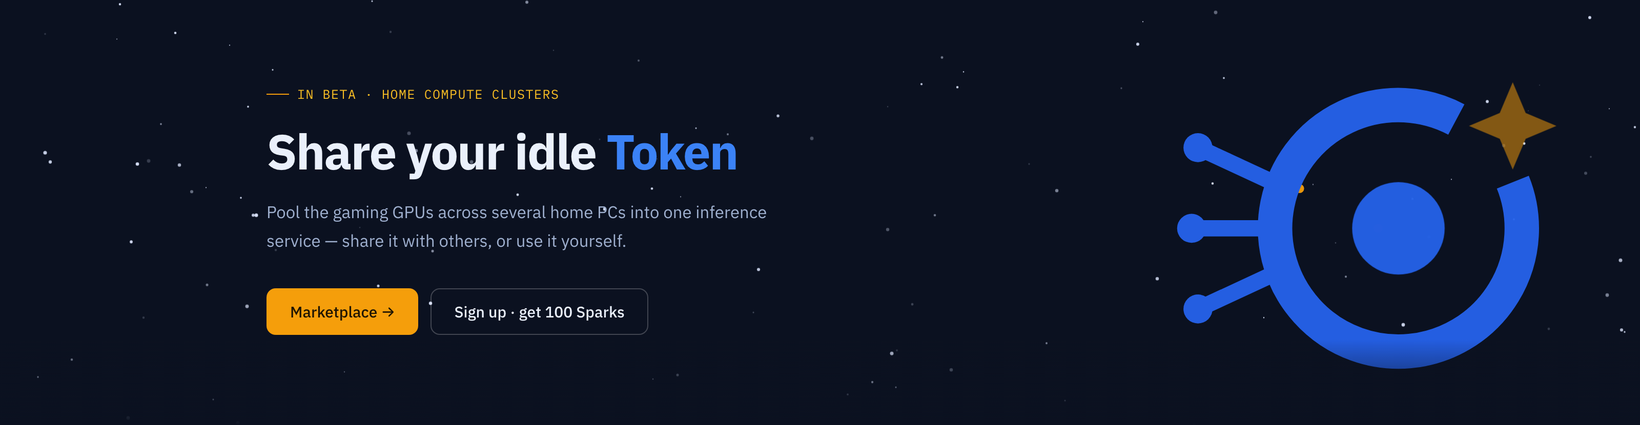
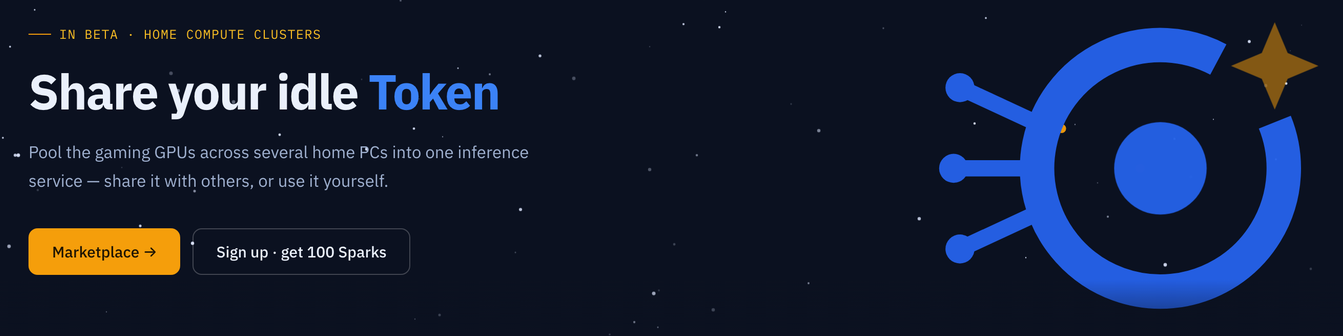
README: crop the dead space out of the hero image
The capture carried 266px of empty background on the left and 84px on top,
against 86 and 56 on the other sides -- lopsided, and at the README's 820px
width most of it was black. Cropped to the artwork with an even 28px margin:
1640x425 -> 1343x336, nothing clipped (the brand-coloured art keeps a 27px gap
on all four sides).

diff --git a/client/src/SettingsPanel.tsx b/client/src/SettingsPanel.tsx
@@ -93,6 +93,58 @@ function CapSlider(props: { label: string; noCap: string; totalBytes: number; va
   );
 }
 
+// ---- weight status, on the model it belongs to ----------------------------
+// Four states, and the button says what pressing it DOES in each:
+//   downloading -> progress + Cancel      failed -> reason + Retry
+//   missing     -> Download               present -> "ready", no button
+export interface WeightsInfo {
+  needs: boolean;
+  path: string;
+  dl: { have: number; total: number; endpoint?: string; note?: string; error?: string } | null;
+  onDownload: () => void;
+  onCancel: () => void;
+}
+
+function WeightsRow(props: { w: WeightsInfo }) {
+  const { t } = useI18n();
+  const d = props.w.dl;
+  // Clicks land on a <label> that owns a radio input; without this, hitting
+  // "Download" would also re-select the model (harmless here, but it makes the
+  // button feel like it did something else).
+  const stop = (e: React.MouseEvent) => e.preventDefault();
+
+  if (d?.error) {
+    return (
+      <span className="model-opt__weights model-opt__weights--err" onClick={stop}>
+        <span>{t("weights.failed")}</span>
+        <button className="linkbtn" onClick={props.w.onDownload}>{t("weights.retry")}</button>
+      </span>
+    );
+  }
+  if (d) {
+    const pct = d.total > 0 ? Math.min(100, Math.round((d.have / d.total) * 100)) : 0;
+    return (
+      <span className="model-opt__weights" onClick={stop}>
+        <span className="model-opt__wbar"><i style={{ width: `${pct}%` }} /></span>
+        <span>
+          {fmtBytes(d.have)}{d.total > 0 ? ` / ${fmtBytes(d.total)}` : ""}
+          {d.endpoint ? ` · ${t("weights.from")} ${new URL(d.endpoint).host}` : ""}
+        </span>
+        <button className="linkbtn" onClick={props.w.onCancel}>{t("weights.cancel")}</button>
+      </span>
+    );
+  }
+  if (props.w.needs) {
+    return (
+      <span className="model-opt__weights" onClick={stop}>
+        <span>{t("weights.needed")}</span>
+        <button className="linkbtn" onClick={props.w.onDownload}>{t("weights.download")}</button>
+      </span>
+    );
+  }
+  return <span className="model-opt__weights model-opt__weights--ok">{t("weights.ready")}</span>;
+}
+
 // ---- schema (everything except the bespoke Quick page) --------------------
 // Six categories, down from fifteen (2026-07 UX audit): the handful of
 // settings that actually work today must not drown in reserved placeholders.
@@ -299,6 +351,9 @@ export default function SettingsPanel(props: {
   // on whatever was open last. Applied on mount only — after that the nav owns
   // the selection, so navigating away inside settings isn't fought.
   initialCategory?: string | null;
+  // Weight presence + download control for the SELECTED model. Owned by App
+  // (it holds the progress-event subscription); rendered on the model row.
+  weights?: WeightsInfo;
   // Sidebar IA: settings is a PLACE now, rendered inline in the content area.
   // (The modal wrapper remains only for potential embedded reuse.)
   asPage?: boolean;
@@ -487,6 +542,12 @@ export default function SettingsPanel(props: {
               <span className="model-opt__name">{m.label}</span>
               <span className="model-opt__params">{m.params}</span>
               {!m.available ? <span className="model-opt__soon">{t("settings.soon")}</span> : null}
+              {/* Weight status sits on the SELECTED row only. It used to be a
+                  floating bar pinned to every screen, which is wrong twice:
+                  "no weights yet" is the resting state of a fresh install (so
+                  the bar never left), and the thing it is about — which model —
+                  is chosen right here. One probe, on the model it describes. */}
+              {s.modelId === m.id && props.weights ? <WeightsRow w={props.weights} /> : null}
             </label>
           ))}
         </div>

diff --git a/client/src/App.tsx b/client/src/App.tsx
@@ -767,9 +767,15 @@ function Dashboard(props: {
 //      been downloaded is kept (otherwise users delete it and start over).
 //   3. Cancel is a first-class citizen. A long task without a cancel button gets
 //      cancelled by quitting the whole application.
+//
+// TRANSIENT STATES ONLY (2026-08-10). It used to have a fourth state — "no
+// weights on this machine yet" — which is not an event, it is the resting
+// condition of every fresh install. A floating bar that never goes away stops
+// being read within a minute and covers the page for the rest of the session.
+// That fact now lives where the decision is made: on the model itself, in
+// Settings → Quick. What is left here happens only while something is running.
 function WeightsBanner(props: {
   dl: { have: number; total: number; endpoint?: string; note?: string; error?: string } | null;
-  needsWeights: boolean;
   onCancel: () => void;
   onStart: () => void;
   onDismissError: () => void;
@@ -799,16 +805,6 @@ function WeightsBanner(props: {
         </span>
         {d.note ? <span className="wbanner__hint">{d.note}</span> : null}
         <button className="iconbtn" onClick={props.onCancel}>{t("weights.cancel")}</button>
-      </div>
-    );
-  }
-  if (props.needsWeights) {
-    return (
-      <div className="wbanner" role="status">
-        <strong>{t("weights.needed")}</strong>
-        {/* the ACTION, not the state — this button read "Downloading weights"
-            while nothing was downloading, which is what it turns into. */}
-        <button className="btn-secondary" onClick={props.onStart}>{t("weights.download")}</button>
       </div>
     );
   }
@@ -1261,7 +1257,7 @@ export default function App() {
 
   return (
     <LangContext.Provider value={{ lang, setLang }}>
-      <div className={`app${dl || needsWeights ? " app--wbanner" : ""}`}>
+      <div className={`app${dl ? " app--wbanner" : ""}`}>
         <TopBar
           cluster={cluster}
           theme={theme}
@@ -1315,6 +1311,14 @@ export default function App() {
                 session={session}
                 onSignIn={() => setShowAuth(true)}
                 initialCategory={settingsCategory}
+                weights={{
+                  needs: needsWeights,
+                  path: weightsPath,
+                  dl,
+                  onDownload: () =>
+                    void ensureWeights().catch((e) => setDl({ have: 0, total: 0, error: String(e) })),
+                  onCancel: () => void cancelFetch("primary"),
+                }}
                 onClose={() => setView("cluster")}
               />
             ) : (
@@ -1373,12 +1377,12 @@ export default function App() {
           </div>
         </div>
       </div>
-      {/* The weight download banner. It appears only when weights are genuinely
-          missing or a download is running -- a permanent notice bar gets ignored. */}
-      {dl || needsWeights ? (
+      {/* Only while a download is running or has failed — `dl` covers both.
+          "This machine has no weights yet" is a standing condition, not an
+          event, and lives on the model row in Settings → Quick. */}
+      {dl ? (
         <WeightsBanner
           dl={dl}
-          needsWeights={needsWeights}
           onCancel={() => void cancelFetch("primary")}
           onStart={() => void ensureWeights().catch((e) => setDl({ have: 0, total: 0, error: String(e) }))}
           onDismissError={() => setDl(null)}
